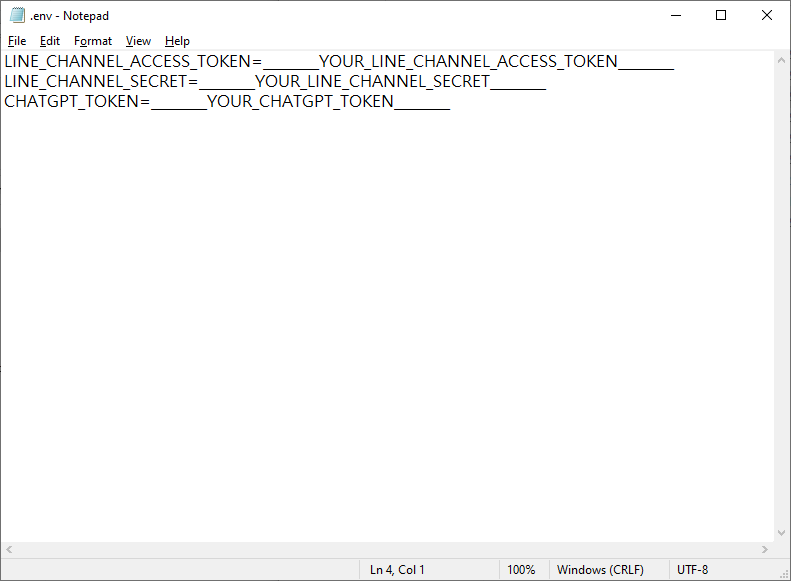
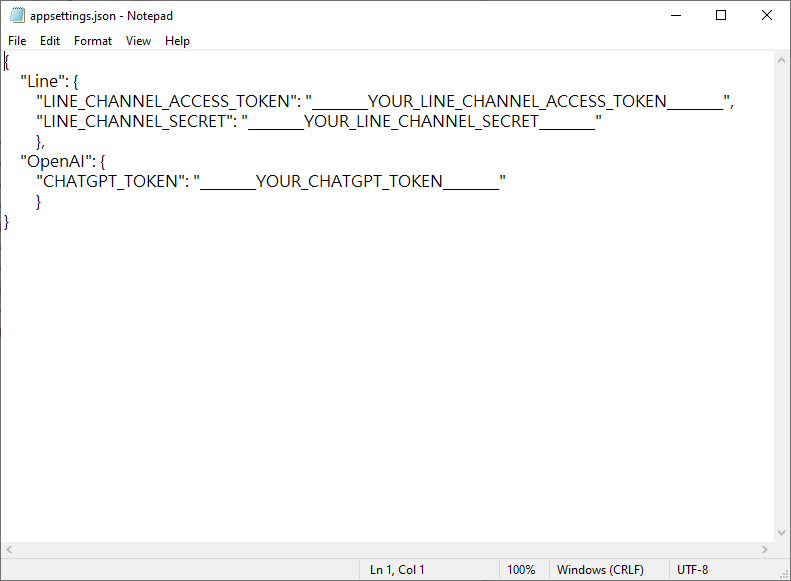
Update ReadMe.md

diff --git a/app.py b/app.py
@@ -5,14 +5,14 @@ Created on Sat Jan 15 22:47:35 2022
 @author: lo
 """
 
-from dotenv import load_dotenv
+# from dotenv import load_dotenv
 import os
 
 # import requests
 # from datetime import datetime
 
 from flask import Flask, request, abort
-# import json, time
+import json
 
 from linebot import (
     LineBotApi, WebhookHandler
@@ -24,12 +24,13 @@ from linebot.models import (
     MessageEvent, TextMessage, TextSendMessage,
 )
 
-from ChatGPT import chatGPT
+from OpenAI.ChatGPT import chatGPT
 
 # Get Configuration Settings
-load_dotenv()
-channel_access_token = os.getenv('LINE_CHANNEL_ACCESS_TOKEN')
-channel_secret = os.getenv('LINE_CHANNEL_SECRET')
+CONFIG = json.load(open("./appsettings.json", "r"))
+channel_access_token = CONFIG["Line"]["LINE_CHANNEL_ACCESS_TOKEN"]
+channel_secret = CONFIG["Line"]["LINE_CHANNEL_SECRET"]
+chatGPT_token = CONFIG["OpenAI"]["CHATGPT_TOKEN"]
 
 app = Flask(__name__)
 
@@ -63,12 +64,11 @@ def callback():
 # 處理訊息
 @handler.add(MessageEvent, message=TextMessage)
 def handle_message(event):
-    message = TextSendMessage(text=chatGPT(event.message.text))
+    message = TextSendMessage(text=chatGPT(event.message.text, chatGPT_token))
     line_bot_api.reply_message(event.reply_token, message)
 
 
 if __name__ == "__main__":
-    port = int(os.environ.get('PORT',50000))
+    port = int(os.environ.get('PORT', 5000))
     app.run(port=port, debug=True)
-
 

diff --git a/OpenAI/ChatGPT.py b/OpenAI/ChatGPT.py
@@ -4,16 +4,12 @@ Created on Thu Dec  8 20:20:42 2022
 
 @author: lo
 """
-from dotenv import load_dotenv
+# from dotenv import load_dotenv
 import os
 import requests
 import json
 
-# Get Configuration Settings
-load_dotenv()
-chatGPT_token = os.getenv('CHATGPT_TOKEN')
-
-def chatGPT(msg):
+def chatGPT(msg, chatGPT_token):
     url = "https://api.openai.com/v1/completions"
     headers = {'Content-Type': 'application/json',
                'Authorization': f'Bearer {chatGPT_token}'
@@ -30,7 +26,13 @@ def chatGPT(msg):
 
 
 if __name__ == "__main__":
+    # Get Configuration Settings
+    folder_path = os.path.dirname(os.path.abspath(__file__))
+    CONFIG = json.load(open(f"{folder_path}/../appsettings.json", "r"))
+    chatGPT_token = CONFIG["OpenAI"]["CHATGPT_TOKEN"]
+
+    # Run
     msg="Say this is a test"
-    answer = chatGPT(msg)
+    answer = chatGPT(msg, chatGPT_token)
     print(answer)
 

diff --git a/README.md b/README.md
@@ -34,7 +34,7 @@ pip install -r requirements.txt
 
 - Apply for OpenAI API key: [https://beta.openai.com/account/api-keys](https://beta.openai.com/account/api-keys)
 
-Open the **.env** file and update the configuration values it contains to reflect the `OUR_LINE_CHANNEL_ACCESS_TOKEN`, `YOUR_LINE_CHANNEL_SECRET` and `YOUR_CHATGPT_TOKEN` for your cognitive services resource. Save your changes.
+Open the **appsettings.json** file and update the configuration values it contains to reflect the `OUR_LINE_CHANNEL_ACCESS_TOKEN`, `YOUR_LINE_CHANNEL_SECRET` and `YOUR_CHATGPT_TOKEN` for your cognitive services resource. Save your changes.
 
 ![Untitled](figure/Untitled.png)
 
@@ -43,7 +43,7 @@ Open the **.env** file and update the configuration values it contains to reflec
 Run the app:
 
 ```bash
-python main.py
+python app.py
 ```
 
 Browse to the sample application at `http://localhost:5000` in a web browser.
@@ -60,33 +60,41 @@ In the application folder, open VS Code:
 code .
 ```
 
-## (Optional) Use NGROK
+Locate the Azure icon in the left-hand toolbar. Select it to bring up the Azure Tools for VS Code extension.
 
-Download Link: [ngrok - download](https://ngrok.com/download)
+If you do not see the Azure Tools icon, make sure you have the Azure Tools extension for VS Code installed.
 
-```bash
-# Add authtoken
-ngrok config add-authtoken <token>
+In the Azure Tools extension for VS Code:
 
-# Start a tunnel
-ngrok.exe http 5000
-```
+1. Login
+2. Find the **RESOURCES** section and select your subscription.
+3. Check out the App Service you have created.
 
 ![Untitled](figure/Untitled%202.png)
+
+Deploy your application code.
+
+![Untitled](figure/Untitled%203.png)
+
+![Untitled](figure/Untitled%204.png)
+
+Browse to the deployed application in your web browser at the URL `http://<app-name>.azurewebsites.net`. If you see a default app page, wait a minute and refresh the browser.
+
+![Untitled](figure/Untitled%205.png)
 
 ## Configure LINE WebHooks
 
 Copy `https URL`.
 
-![Untitled](figure/Untitled%203.png)
+![Untitled](figure/Untitled%206.png)
 
 Paste Your `<https URL>/callback` before verifying.
 
-![Untitled](figure/Untitled%204.png)
+![Untitled](figure/Untitled%207.png)
 
 Verification successful.
 
-![Untitled](figure/Untitled%205.png)
+![Untitled](figure/Untitled%208.png)
 
 # Reference
 
